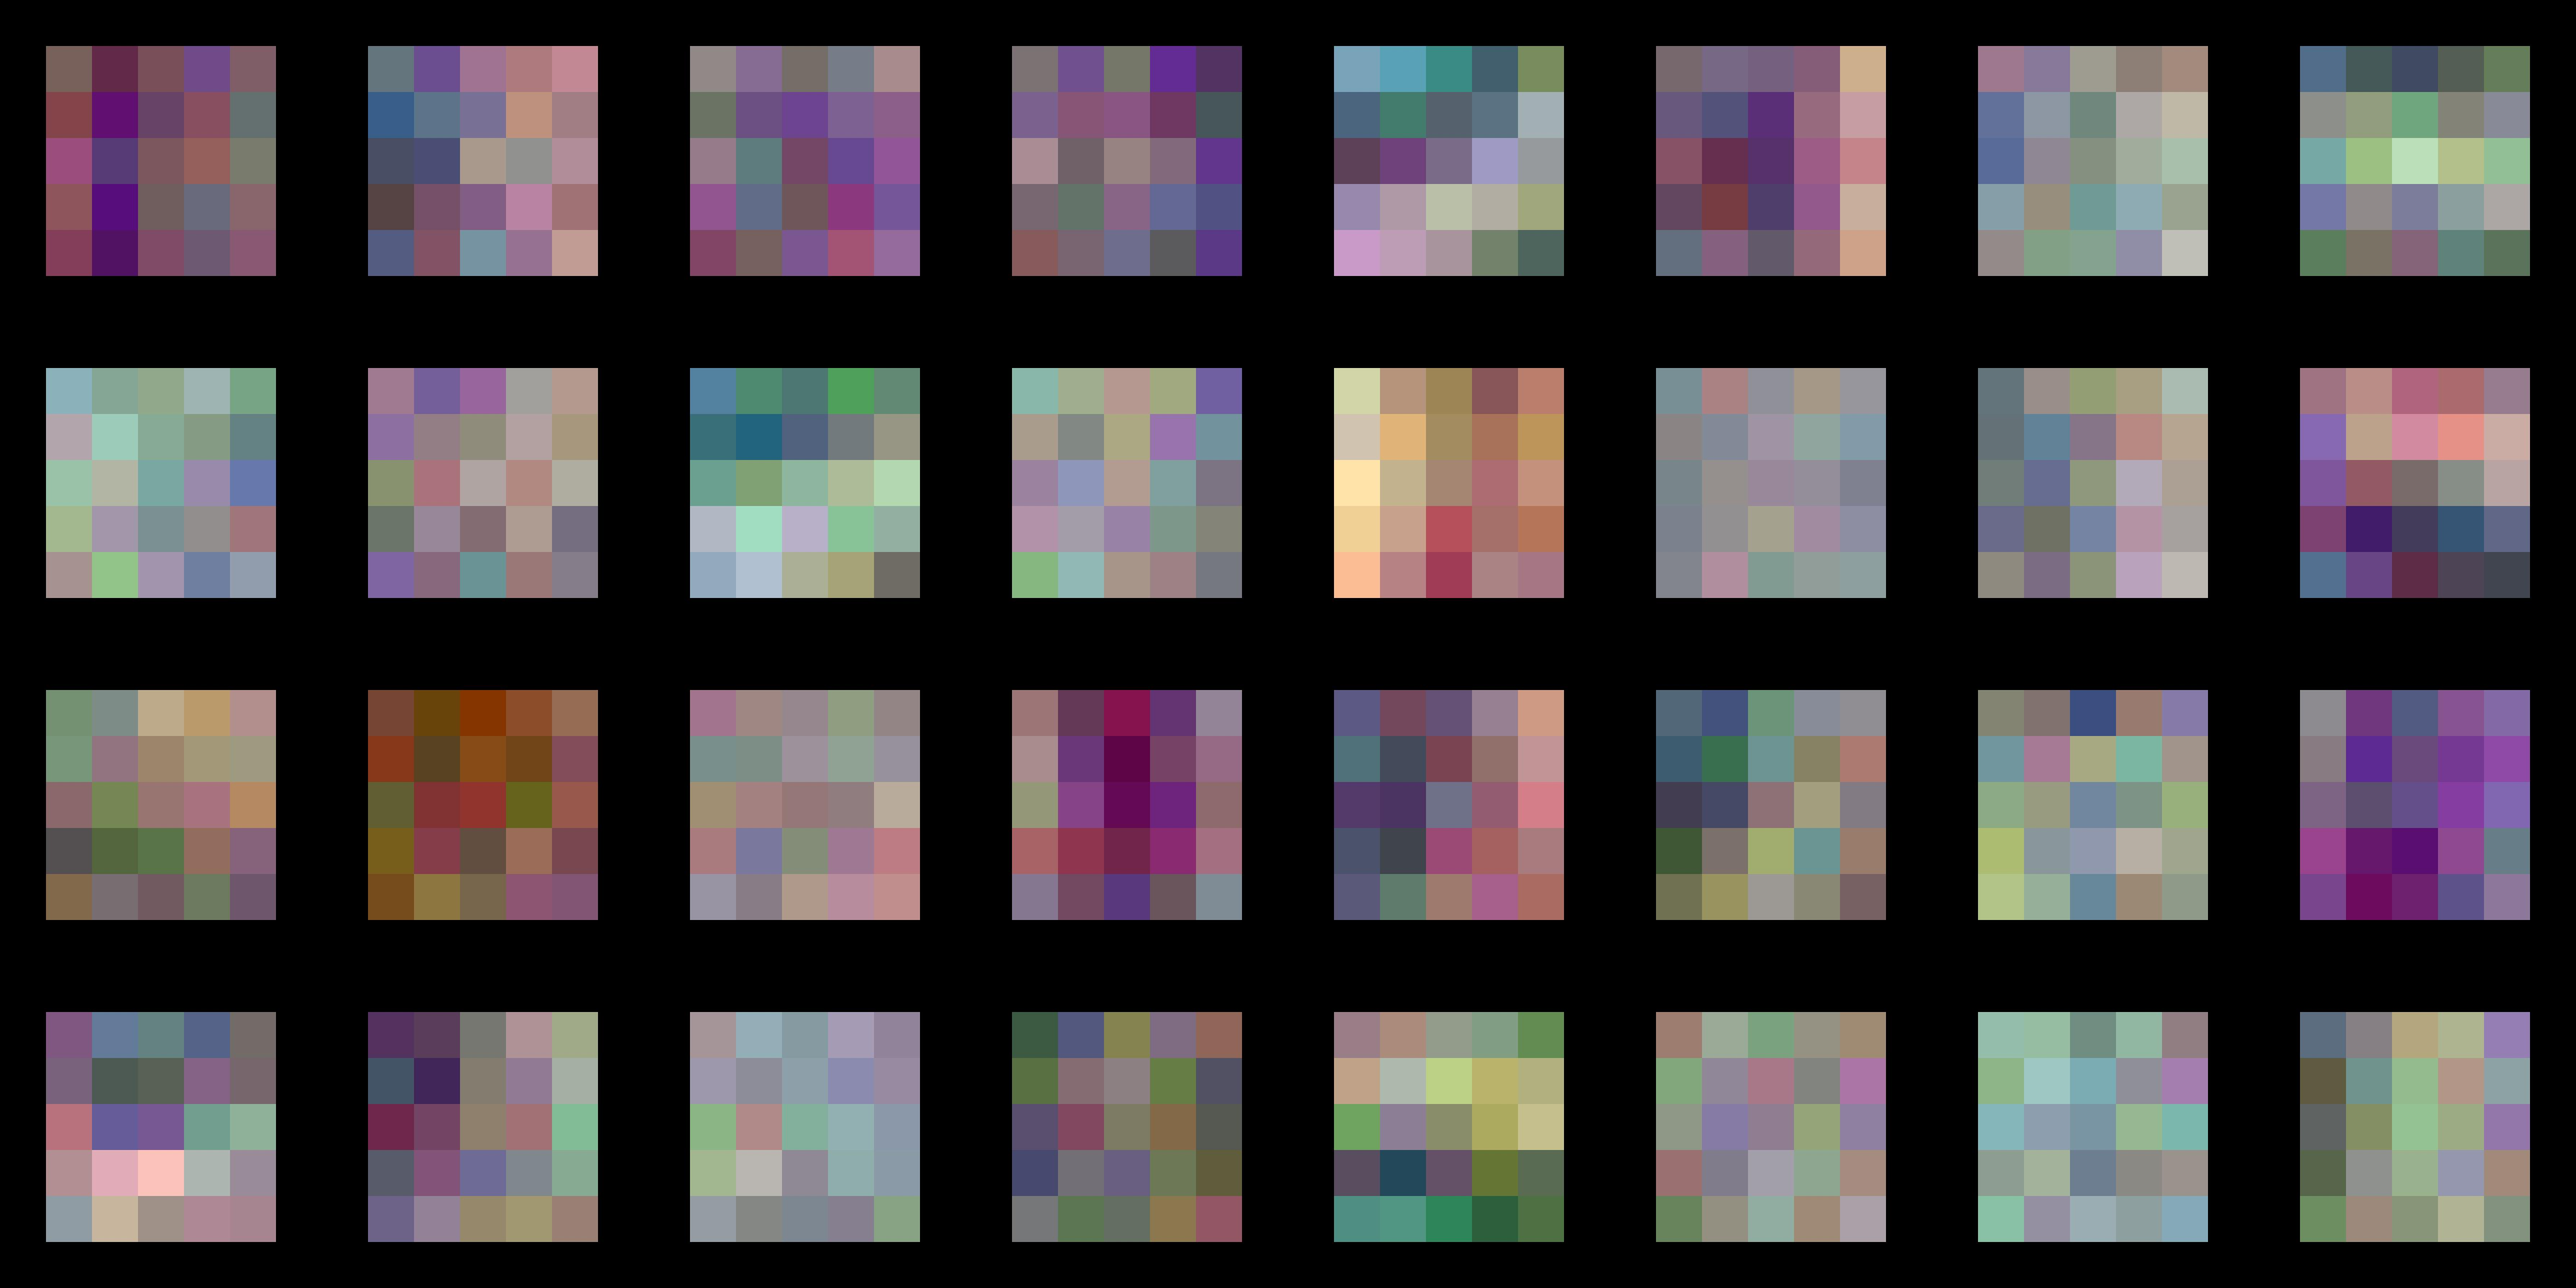
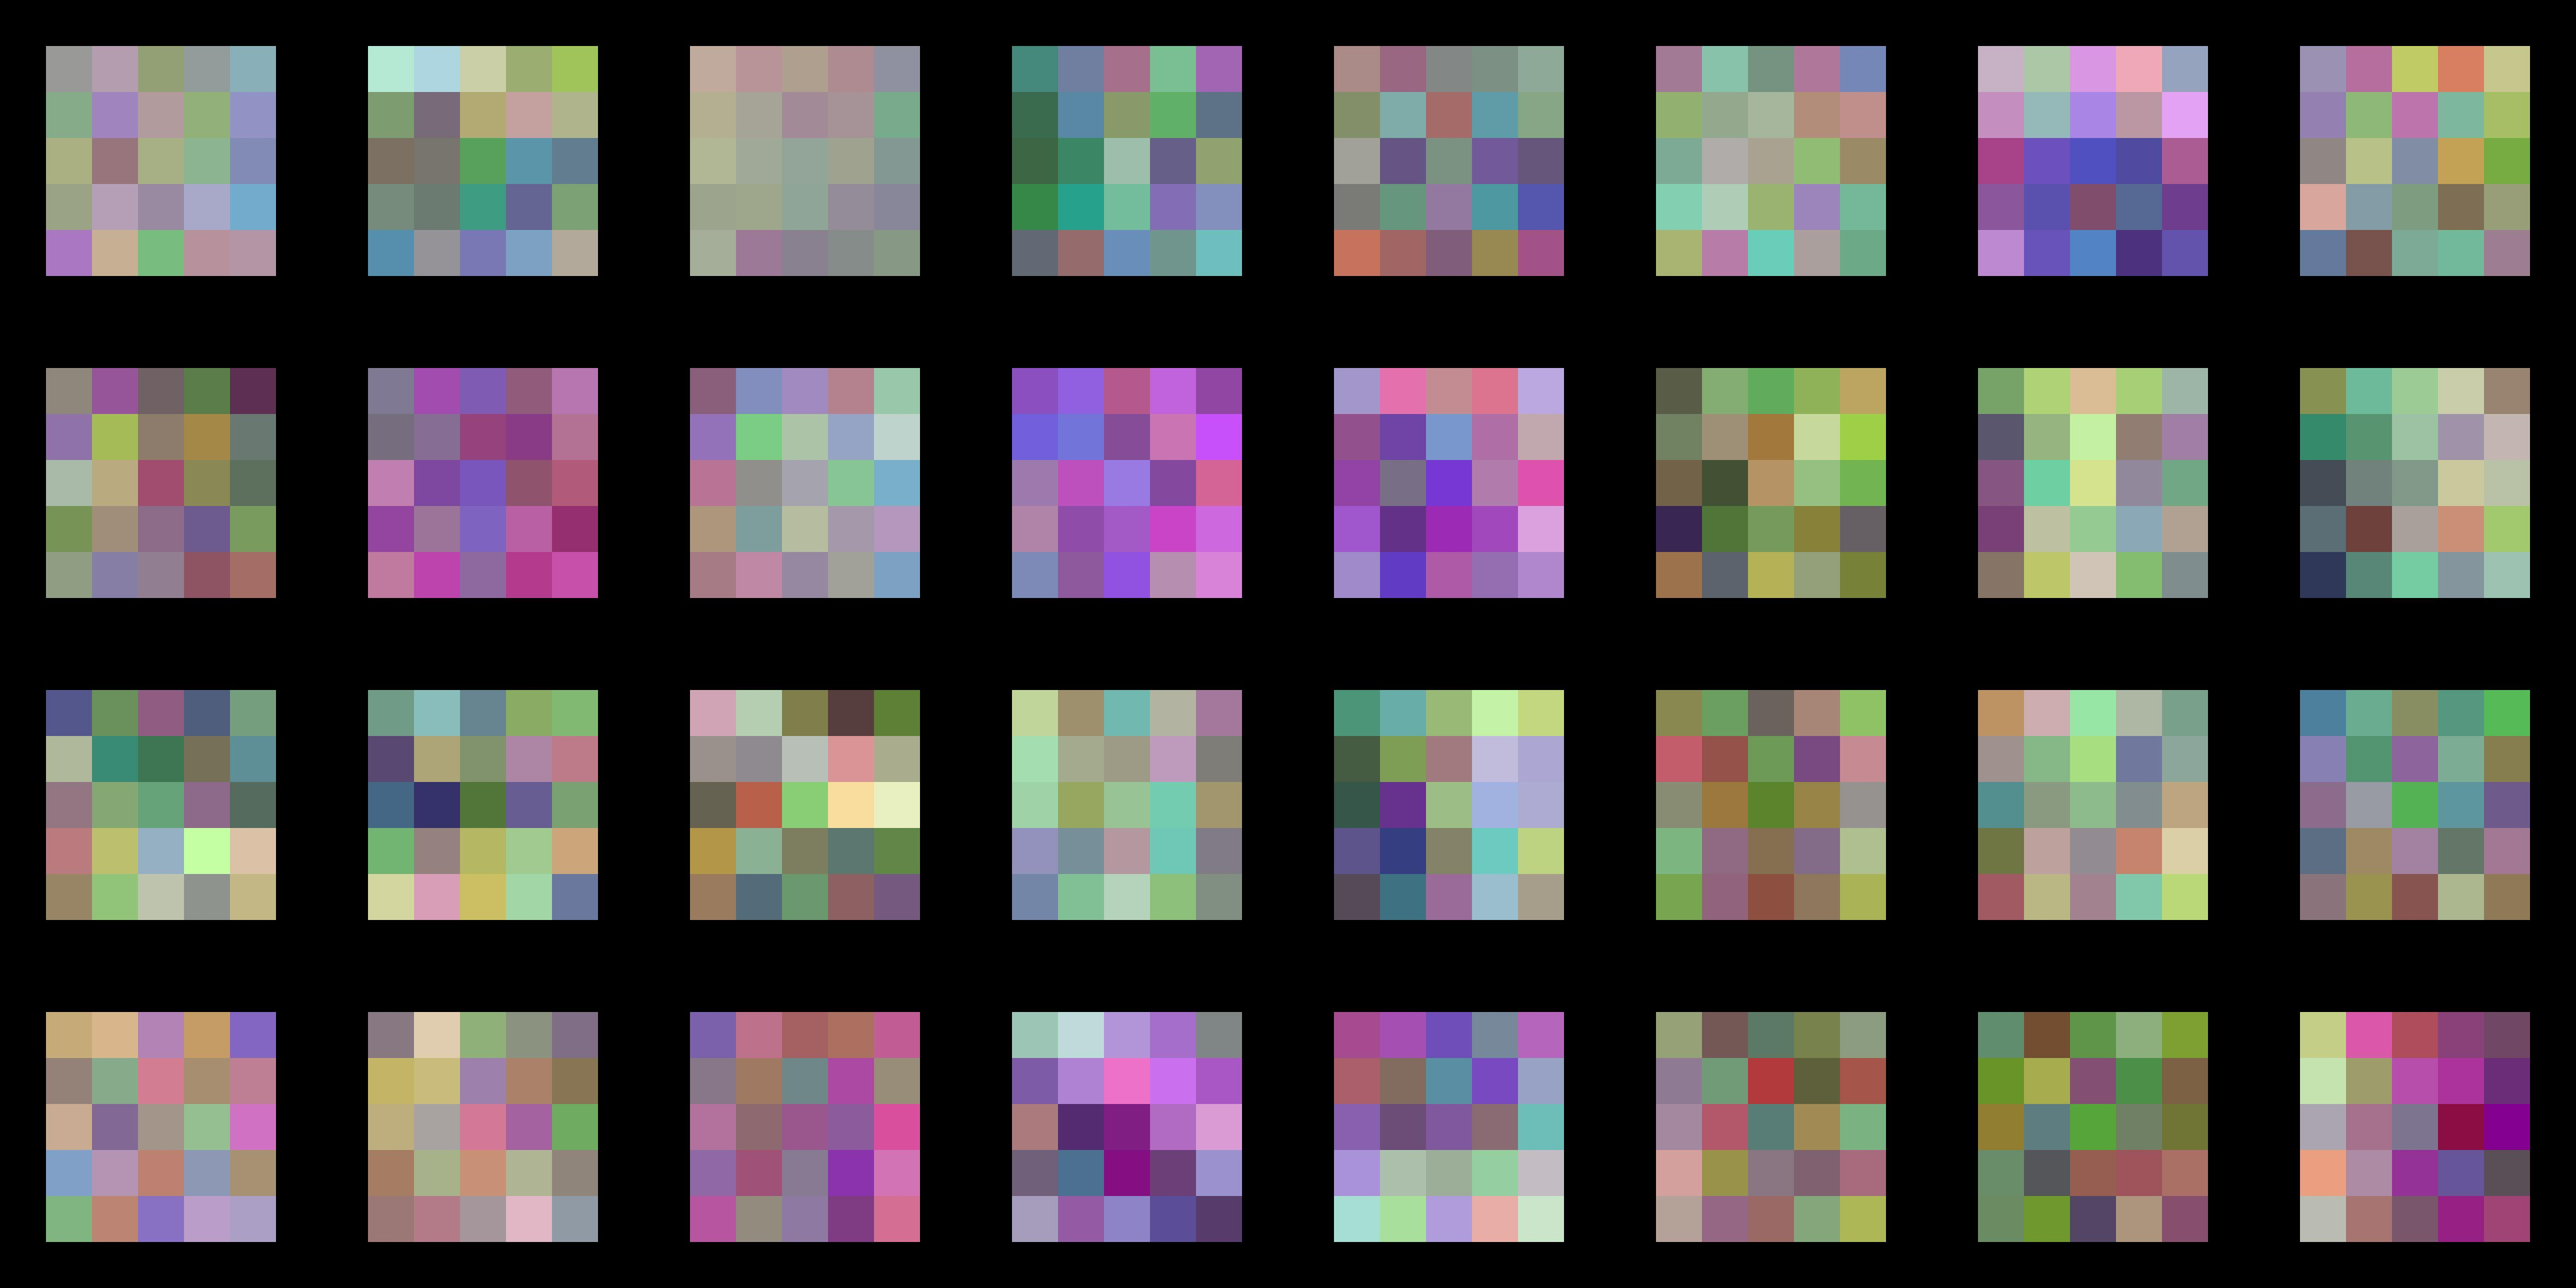
commit new results

diff --git a/part2/util.py b/part2/util.py
@@ -19,6 +19,16 @@ import matplotlib as mpl
 mpl.use('Agg')
 import matplotlib.pyplot as plt
 
+use_cuda = torch.cuda.is_available()
+
+torch.manual_seed(123)
+
+if use_cuda:
+	torch.cuda.manual_seed_all(123)
+
+np.random.seed(123)
+random.seed(123)
+
 DATA_PATH = './datasets'
 TRAIN_PATH_OLD = './datasets/train_64x64'
 TEST_PATH_OLD = './datasets/valid_64x64'
@@ -28,7 +38,6 @@ RESULT_PATH = './result'
 
 IMG_PATH = './datasets/PetImages'
 
-use_cuda = torch.cuda.is_available()
 GLOBAL_TEMP = None
 
 def visualize_kernel(kernel_tensor, im_name='conv1_kernel.jpg', pad=1, im_scale=100.0,

diff --git a/part2/train_valid.py b/part2/train_valid.py
@@ -64,7 +64,7 @@ def _evaluate_data_set(model, data_loader):
 
 
 def run(model, train_loader, valid_loader, test_loader, model_name, 
-		total_epoch, lr, opt, momentum, lr_decay=1e-5, weight_decay=1e-5):
+		total_epoch, lr, opt, momentum, lr_decay=1e-5, weight_decay=5e-5):
 
 	if opt == 'Adagrad':
 		print 'Learning rate decay:\t{}'.format(lr_decay)

diff --git a/part2/main.py b/part2/main.py
@@ -33,13 +33,6 @@ if __name__ == '__main__':
 
 	args = parse()
 
-	torch.manual_seed(args.seed)
-
-	if use_cuda:
-		torch.cuda.manual_seed_all(args.seed)
-
-	random.seed(args.seed)
-
 	print 'Loading data...'
 	#seperate_data()
 	train_loader, valid_loader, test_loader = load_data(batch_size=args.batch_size,
